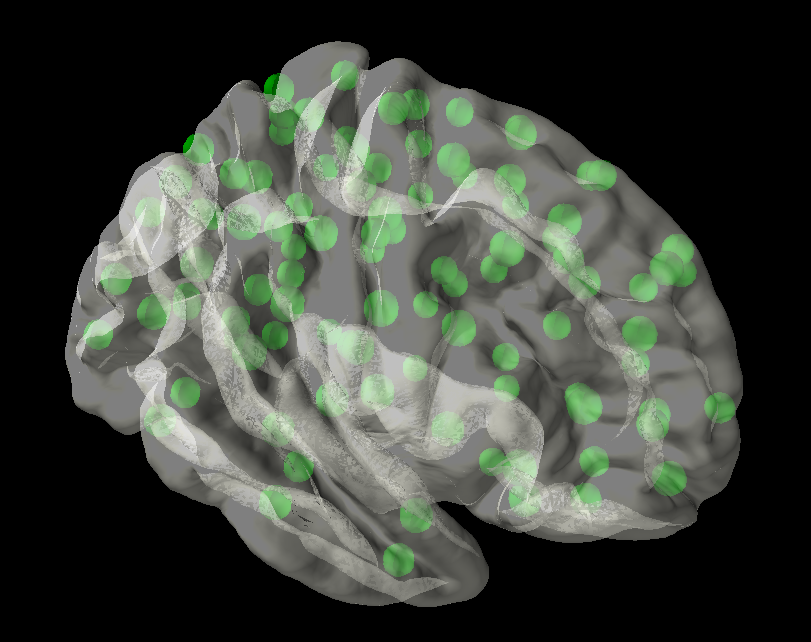
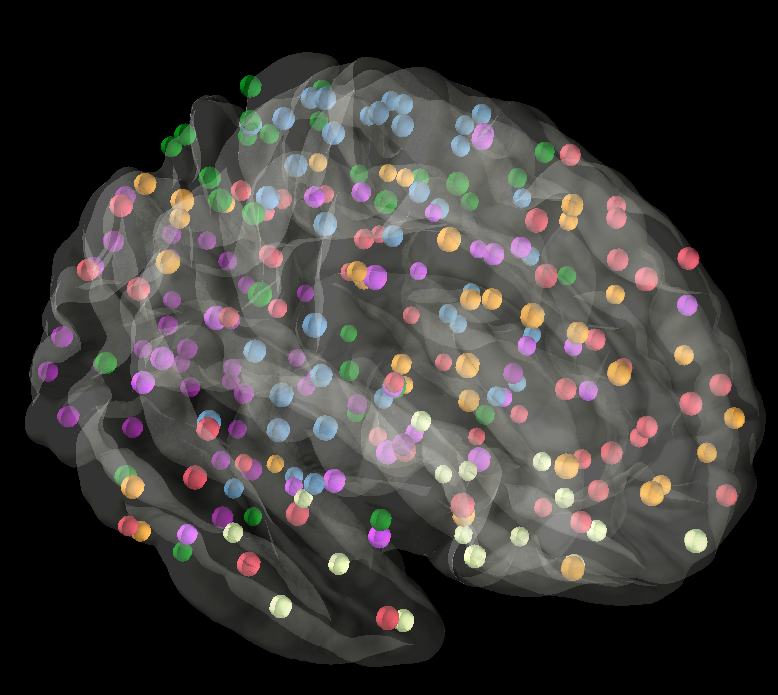
new function for connectivity

diff --git a/DissNet/metrics.py b/DissNet/metrics.py
@@ -13,18 +13,72 @@ import matplotlib.pyplot as plt
 
 class Connectivity_metrics(object):
 
-    def __init__(self, matrices_files, labels_dic):
+    def __init__(self, matrices_files, net_label_txt, labels_dic):
 
         self.matrices_files = matrices_files
+        self.net_label_txt = net_label_txt
         self.labels_dic = labels_dic
 
-    def extract_conn(self, sbj2use, label2use):
-        self.matrix = pd.read_csv(self.matrices_files[sbj2use], sep= ' ', header=None)
-        self.matrix = np.array(self.matrix)
-        np.fill_diagonal(self.matrix,0)
-        self.subj_matrix = self.matrix[self.labels_dic[label2use]]
-        self.subj_matrix = self.subj_matrix[:,self.labels_dic[label2use]]
-        self.streamlines_sum = np.sum(np.sum(self.subj_matrix))
-        self.conn_measure = self.streamlines_sum/len(self.labels_dic[label2use])
+    def nodes_overall_conn(self):
+        self.nodes_conn = []
+        for subj in range(len(self.matrices_files)):
+            self.matrix = pd.read_csv(self.matrices_files[subj], sep= ' ', header=None)
+            self.matrix = np.array(self.matrix)
+            np.fill_diagonal(self.matrix,0)
+            for nodes in range(self.matrix.shape[0]):
+                self._node_conn =  np.sum(self.matrix[nodes])
+                self.nodes_conn.append(self._node_conn)
+        self.nodes_conn = np.array(self.nodes_conn)
+        self.nodes_conn = self.nodes_conn.reshape(len(self.matrices_files), self.matrix.shape[0])
+        return self.nodes_conn
 
-        return self.conn_measure
+
+    def node_inner_net_conn(self, sbj_number, nodes_number):
+        with open(self.net_label_txt) as f:
+            net=f.read().splitlines()
+        self.all_conn = np.zeros([sbj_number, nodes_number])
+        for subj in range(len(self.matrices_files)):
+            self.matrix = pd.read_csv(self.matrices_files[subj], sep= ' ', header=None)
+            self.matrix = np.array(self.matrix)
+            np.fill_diagonal(self.matrix,0)
+            for network in net:
+                for nodes in self.labels_dic[network]:
+                    self.sub_matrix =self.matrix[nodes]
+                    self.all_conn[subj, nodes] = np.sum(self.sub_matrix[self.labels_dic[network]])
+        return self.all_conn
+
+
+    def node_outer_net_conn(self, sbj_number, nodes_number):
+        with open(self.net_label_txt) as f:
+            net=f.read().splitlines()
+        self.all_conn = np.zeros([sbj_number, nodes_number])
+        for subj in range(len(self.matrices_files)):
+            self.matrix = pd.read_csv(self.matrices_files[subj], sep= ' ', header=None)
+            self.matrix = np.array(self.matrix)
+            np.fill_diagonal(self.matrix,0)
+            self.nodes_ranges = np.arange(len(self.labels_dic['nodes']))
+            for network in net:
+                self.outer_idx = np.setdiff1d(self.nodes_ranges, self.labels_dic[network])
+                for nodes in self.outer_idx:
+                    self.sub_matrix =self.matrix[nodes]
+                    self.all_conn[subj, nodes] = np.sum(self.sub_matrix[self.outer_idx])
+        return self.all_conn
+
+
+    def net_inner_conn(self):
+        with open(self.net_label_txt) as f:
+            net=f.read().splitlines()
+        self.all_conn = []
+        for subj in range(len(self.matrices_files)):
+            self.matrix = pd.read_csv(self.matrices_files[subj], sep= ' ', header=None)
+            self.matrix = np.array(self.matrix)
+            np.fill_diagonal(self.matrix,0)
+            for network in net:
+                self.subj_matrix = self.matrix[self.labels_dic[network]]
+                self.subj_matrix = self.subj_matrix[:,self.labels_dic[network]]
+                self.streamlines_sum = np.sum(np.sum(self.subj_matrix))
+                self.conn_measure = self.streamlines_sum/len(self.labels_dic[network])
+                self.all_conn.append(self.conn_measure)
+        self.all_conn = np.array(self.all_conn)
+        self.all_conn = self.all_conn.reshape(len(self.matrices_files), len(net))
+        return self.all_conn

diff --git a/DissNet/plot.py b/DissNet/plot.py
@@ -8,40 +8,67 @@ import numpy as np
 import pandas as pd
 
 
-#os.environ['SUBJECTS_DIR'] = sys.argv[0]
 
-#subjects_dir = sys.argv[0]
-#subject = sys.argv[1]
-
-
-#np.set_printoptions(suppress=True) #prevent numpy exponential
-#label = pd.read_excel('/home/davide/Desktop/DAVE/ATLASES/Schaefer/Schafer_for_BrainNet.xlsx', header=None)
-#matrix = np.array(label)
-#coords = matrix[:,0:3]
-
-#brain = Brain(subject, subjects_dir=subjects_dir, hemi='rh', surf='pial', cortex='ivory', alpha=0.5)
-
-
-#for hemi in ["lh", "rh"]:
-#    brain = Brain(subject, subjects_dir=subjects_dir, hemi=hemi, surf='pial', cortex='ivory', alpha=0.5)
-#    brain.add_foci(coords, color="green", scale_factor=0.8)
-
-#brain.add_foci(coords, color="green", scale_factor=0.8)
-
-#mlab.show()
-def plot_atlas(subjects_dir, atlas, subject, hemi):
+def plot_surface(subjects_dir, atlas, subject, hemi, opacity=None ,scale_factor=None):
     np.set_printoptions(suppress=True) #prevent numpy exponential
     label = pd.read_excel(atlas, header=None)
     matrix = np.array(label)
-    coords = matrix[:,0:3]
+    coords = np.array(matrix[:,5:8], dtype='float32')
+    color = np.array(matrix[:,2:5], dtype='float32')
+    def NormalizeData(data):
+         return (data - np.min(data)) / (np.max(data) - np.min(data))
+    if scale_factor==None:
+     scale_factor_norm= np.zeros(matrix.shape[0]) + 0.5
+    else:
+        scale_factor_norm = NormalizeData(scale_factor) + 0.5
 
-    brain = Brain(subject, subjects_dir=subjects_dir, hemi=hemi, surf='pial', cortex='ivory', alpha=0.5)
+    if opacity==None:
+     opacity= 0.5
+    else:
+        opacity = opacity
 
-
+    brain = Brain(subject, subjects_dir=subjects_dir, hemi=hemi, surf='pial', cortex='ivory', alpha=opacity)
     #for hemi in ["lh", "rh"]:
     #    brain = Brain(subject, subjects_dir=subjects_dir, hemi=hemi, surf='pial', cortex='ivory', alpha=0.5)
     #    brain.add_foci(coords, color="green", scale_factor=0.8)
+    for roi in range(coords.shape[0]):
+        brain.add_foci(coords[roi], color=(color[roi][0]/255.0, color[roi][1]/255.0, color[roi][2]/255.0), scale_factor=scale_factor_norm[roi], hemi='rh')
 
-    brain.add_foci(coords, color="green", scale_factor=0.8)
+    #brain.add_foci(coords, color="green", scale_factor=0.8)
 
     mlab.show()
+
+
+def spider_plot(labels, values, colour, linestyle, linecolour, linewidth, label_colour, label_size, ylim):
+    values = values * 100 / np.sum(values)
+    values = values.tolist()
+    values += values[:1]
+    N = len(labels)
+    angles = [n / float(N) * 2 * pi for n in range(N)]
+    angles += angles[:1]
+    ax = plt.subplot(111, polar=True)
+
+    plt.xticks(angles, Net, color=label_colour, size=label_size)
+
+    ax.set_rlabel_position(0)
+    plt.ylim(0,ylim)
+
+    ax.plot(angles, values, linecolour , linewidth=linewidth, linestyle=linestyle)
+
+    ax.fill(angles, values, colour, alpha=0.3)
+    plt.show()
+
+
+
+def bar_plot(Net_label, values, align, alpha, xlabel):
+    barlist= plt.barh(np.arange(len(Net_label)), values, align=align, alpha=alpha)
+    plt.yticks(np.arange(len(Net_label)), Net_label)
+    plt.xlabel(xlabel)
+    barlist[0].set_color('purple')
+    barlist[1].set_color('skyblue')
+    barlist[2].set_color('green')
+    barlist[3].set_color('violet')
+    barlist[4].set_color('wheat')
+    barlist[5].set_color('orange')
+    barlist[6].set_color('#cb181d')
+    plt.show()
